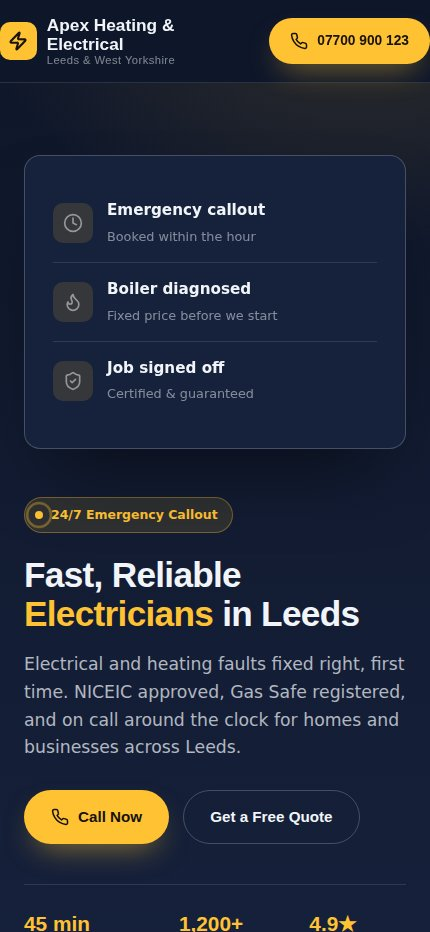
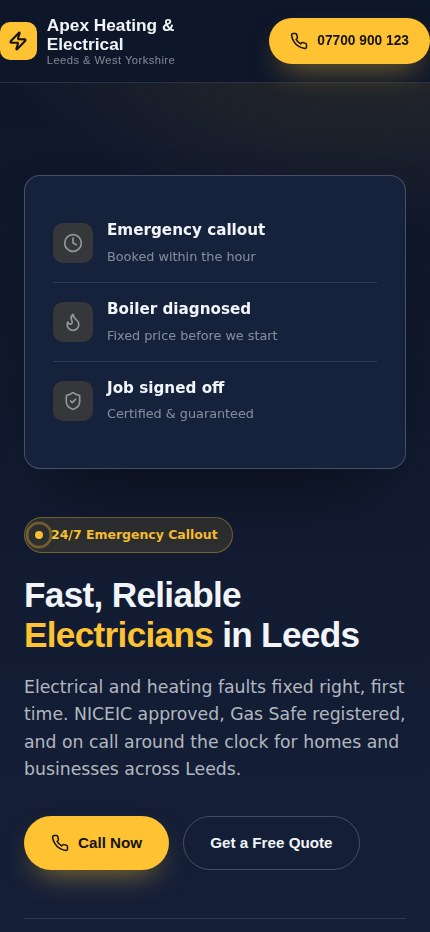
Rewrite hero subheading, lead with salon concept, expand FAQ
Replaces the comma-fragment hero subheading with a plain sentence.
Reorders the work carousel so the salon concept (the strongest of the
three) leads, and brings the trade and café demos up to the same
level of polish: more whitespace, softer type weight on trade,
removal of the cluttered accreditation-badge row and decorative hero
stripe. Regenerates their preview screenshots to match. Expands the
FAQ from 3 to 8 direct Q&As covering pricing, ownership, hosting, and
post-launch changes.

Claude-Session: https://claude.ai/code/session_01MZ8uvbx1JFejx8RpY4SyVR

diff --git a/public/demo-trade.html b/public/demo-trade.html
@@ -57,8 +57,8 @@
 
   h1, h2, h3 {
     font-family: "Manrope", "Inter", sans-serif;
-    font-weight: 800;
-    line-height: 1.12;
+    font-weight: 700;
+    line-height: 1.15;
     margin: 0 0 0.5em;
     letter-spacing: -0.01em;
   }
@@ -73,10 +73,10 @@
     padding: 0 24px;
   }
 
-  .section { padding: 88px 0; }
+  .section { padding: 104px 0; }
 
   @media (max-width: 640px) {
-    .section { padding: 60px 0; }
+    .section { padding: 68px 0; }
   }
 
   .eyebrow {
@@ -85,11 +85,11 @@
     gap: 8px;
     font-family: "Manrope", sans-serif;
     font-size: 0.78rem;
-    font-weight: 800;
-    letter-spacing: 0.12em;
+    font-weight: 700;
+    letter-spacing: 0.16em;
     text-transform: uppercase;
     color: var(--gold);
-    margin-bottom: 14px;
+    margin-bottom: 16px;
   }
 
   .icon {
@@ -244,7 +244,7 @@
   .hero {
     position: relative;
     overflow: hidden;
-    padding: 72px 0 64px;
+    padding: 92px 0 84px;
     background:
       radial-gradient(600px 400px at 85% -10%, rgba(255, 194, 51, 0.14), transparent 65%),
       linear-gradient(180deg, var(--ink) 0%, var(--ink-raised) 100%);
@@ -313,15 +313,15 @@
     display: flex;
     gap: 14px;
     flex-wrap: wrap;
-    margin: 28px 0 40px;
+    margin: 32px 0 48px;
   }
 
   .hero-stats {
     display: flex;
-    gap: 32px;
+    gap: 40px;
     flex-wrap: wrap;
     border-top: 1px solid var(--line);
-    padding-top: 22px;
+    padding-top: 28px;
   }
 
   .stat strong {
@@ -381,35 +381,6 @@
     .hero-visual { order: -1; }
   }
 
-  /* ---- Trust badges ---- */
-  .trust-section {
-    background: var(--ink-raised);
-    border-top: 1px solid var(--line);
-    border-bottom: 1px solid var(--line);
-    padding: 34px 0;
-  }
-
-  .trust-row {
-    display: flex;
-    flex-wrap: wrap;
-    gap: 14px;
-    justify-content: center;
-  }
-
-  .trust-badge {
-    display: flex;
-    align-items: center;
-    gap: 10px;
-    background: var(--ink-raised-2);
-    border: 1px solid var(--line-strong);
-    border-radius: 999px;
-    padding: 10px 18px;
-    font-size: 0.85rem;
-    font-weight: 700;
-  }
-
-  .trust-badge .icon { width: 18px; height: 18px; color: var(--gold); }
-
   /* ---- Services ---- */
   .section-head {
     max-width: 560px;
@@ -422,7 +393,7 @@
   .services-grid {
     display: grid;
     grid-template-columns: repeat(2, 1fr);
-    gap: 22px;
+    gap: 26px;
   }
 
   .service-card {
@@ -505,7 +476,7 @@
   .steps {
     display: grid;
     grid-template-columns: repeat(3, 1fr);
-    gap: 28px;
+    gap: 34px;
   }
 
   .step { position: relative; }
@@ -773,32 +744,6 @@
       </div>
     </section>
 
-    <section class="trust-section">
-      <div class="wrap">
-        <div class="trust-row">
-          <span class="trust-badge">
-            <svg class="icon" viewBox="0 0 24 24"><path d="M20 13c0 5-3.5 7.5-7.66 8.95a1 1 0 0 1-.67-.01C7.5 20.5 4 18 4 13V6a1 1 0 0 1 1-1c2 0 4.5-1.2 6.24-2.72a1.17 1.17 0 0 1 1.52 0C14.51 3.81 17 5 19 5a1 1 0 0 1 1 1z"/><path d="m9 12 2 2 4-4"/></svg>
-            NICEIC Approved Contractor*
-          </span>
-          <span class="trust-badge">
-            <svg class="icon" viewBox="0 0 24 24"><path d="M20 13c0 5-3.5 7.5-7.66 8.95a1 1 0 0 1-.67-.01C7.5 20.5 4 18 4 13V6a1 1 0 0 1 1-1c2 0 4.5-1.2 6.24-2.72a1.17 1.17 0 0 1 1.52 0C14.51 3.81 17 5 19 5a1 1 0 0 1 1 1z"/><path d="m9 12 2 2 4-4"/></svg>
-            Gas Safe Registered*
-          </span>
-          <span class="trust-badge">
-            <svg class="icon" viewBox="0 0 24 24"><path d="M20 13c0 5-3.5 7.5-7.66 8.95a1 1 0 0 1-.67-.01C7.5 20.5 4 18 4 13V6a1 1 0 0 1 1-1c2 0 4.5-1.2 6.24-2.72a1.17 1.17 0 0 1 1.52 0C14.51 3.81 17 5 19 5a1 1 0 0 1 1 1z"/><path d="m9 12 2 2 4-4"/></svg>
-            Fully Insured*
-          </span>
-          <span class="trust-badge">
-            <svg class="icon" viewBox="0 0 24 24"><path d="M20 13c0 5-3.5 7.5-7.66 8.95a1 1 0 0 1-.67-.01C7.5 20.5 4 18 4 13V6a1 1 0 0 1 1-1c2 0 4.5-1.2 6.24-2.72a1.17 1.17 0 0 1 1.52 0C14.51 3.81 17 5 19 5a1 1 0 0 1 1 1z"/><path d="m9 12 2 2 4-4"/></svg>
-            Registered Competent Person*
-          </span>
-        </div>
-        <p style="text-align:center; font-size:0.72rem; color:var(--text-faint); margin: 14px 0 0;">
-          *Placeholder accreditation badges for this design concept — a real site would use the business's actual registration numbers.
-        </p>
-      </div>
-    </section>
-
     <section class="section" id="services">
       <div class="wrap">
         <div class="section-head">
@@ -971,9 +916,9 @@
       <p class="footer-disclaimer">
         Apex Heating &amp; Electrical is a <strong>fictional business</strong>
         created as a concept design demo by
-        <a href="./">CG Design Co.</a>. Accreditation badges,
-        pricing, phone number, and reviews on this page are placeholders for
-        illustration only and don't represent a real company.
+        <a href="./">CG Design Co.</a>. Pricing, phone number, and job
+        figures on this page are placeholders for illustration only and
+        don't represent a real company.
       </p>
     </div>
   </footer>

diff --git a/public/demo-cafe.html b/public/demo-cafe.html
@@ -69,10 +69,10 @@
 
   .wrap { max-width: var(--max-width); margin: 0 auto; padding: 0 24px; }
 
-  .section { padding: 84px 0; }
+  .section { padding: 100px 0; }
 
   @media (max-width: 640px) {
-    .section { padding: 56px 0; }
+    .section { padding: 68px 0; }
   }
 
   .eyebrow {
@@ -215,7 +215,7 @@
   .hero {
     position: relative;
     overflow: hidden;
-    padding: 60px 0 0;
+    padding: 76px 0 96px;
     background: linear-gradient(180deg, var(--bg) 0%, var(--bg-raised) 100%);
   }
 
@@ -253,9 +253,10 @@
   .hero-quicklinks {
     display: grid;
     grid-template-columns: repeat(4, 1fr);
-    gap: 12px;
+    gap: 16px;
     border-top: 1px solid var(--line);
-    padding-top: 24px;
+    padding-top: 32px;
+    margin-top: 8px;
   }
 
   .quicklink {
@@ -288,21 +289,6 @@
 
   @media (max-width: 640px) {
     .hero-quicklinks { grid-template-columns: repeat(2, 1fr); }
-  }
-
-  .hero-strip {
-    margin-top: 56px;
-    height: 120px;
-    background:
-      linear-gradient(120deg, rgba(193, 101, 46, 0.22), transparent 55%),
-      repeating-linear-gradient(
-        135deg,
-        var(--bg-raised-2),
-        var(--bg-raised-2) 40px,
-        var(--bg-raised) 40px,
-        var(--bg-raised) 80px
-      );
-    border-top: 1px solid var(--line);
   }
 
   /* ---- Menu section ---- */
@@ -654,8 +640,6 @@
           </a>
         </div>
       </div>
-
-      <div class="hero-strip" aria-hidden="true"></div>
     </section>
 
     <section class="section" id="menu">
